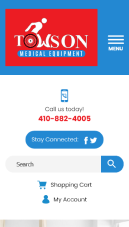
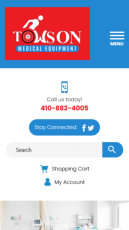
updated styles and added projects

diff --git a/src/template.html b/src/template.html
@@ -8,6 +8,7 @@
 </head>
 
 <body>
+  <div class="bg-fixed"></div>
   <header id="header" class="header">
     <div class="wrapper header__wrapper">
       <div class="header__container">
@@ -18,10 +19,10 @@
         </figure>
         <nav class="header__navigation">
           <ul class="header-nav-list">
-            <li class="header-nav-list__item"><a class="header-nav-list__item-link" href="javascript:;">About</a></li>
-            <li class="header-nav-list__item"><a class="header-nav-list__item-link" href="javascript:;">Projects</a>
+            <li class="header-nav-list__item"><a class="header-nav-list__item-link" href="#about">About</a></li>
+            <li class="header-nav-list__item"><a class="header-nav-list__item-link" href="#projects">Projects</a>
             </li>
-            <li class="header-nav-list__item"><a class="header-nav-list__item-link" href="javascript:;">Contact</a></li>
+            <li class="header-nav-list__item"><a class="header-nav-list__item-link" href="#contact">Contact</a></li>
           </ul>
         </nav>
         <button class="header__resume-btn"><span>Resume</span></button>
@@ -30,7 +31,7 @@
   </header>
 
   <section id="banner" class="banner">
-    <div class="wrapper banner__wrapper">
+    <div class=" wrapper banner__wrapper">
       <div class="banner__container">
         <div class="banner-information">
           <h2 class="banner-information__title">
@@ -168,15 +169,54 @@
               <div class="slider__slide">
                 <figure class="slider__figure">
                   <img class="slider__img" src="images/projects/project-desktop-2.jpg"
-                    alt="ahu ike health coaching and wellness center desktop screenshot view">
+                    alt="ahu ike health coaching and wellness website center desktop screenshot view">
                 </figure>
               </div>
               <div class="slider__slide">
                 <figure class="slider__figure">
                   <img class="slider__img" src="images/projects/project-desktop-3.jpg"
+                    alt="taste of colorado website desktop screenshot view">
+                </figure>
+              </div>
+              <div class="slider__slide">
+                <figure class="slider__figure">
+                  <img class="slider__img" src="images/projects/project-desktop-4.jpg"
+                    alt="lshiz hive website desktop screenshot view">
+                </figure>
+              </div>
+              <div class="slider__slide">
+                <figure class="slider__figure">
+                  <img class="slider__img" src="images/projects/project-desktop-5.jpg"
+                    alt="bsk studios website desktop screenshot view">
+                </figure>
+              </div>
+              <div class="slider__slide">
+                <figure class="slider__figure">
+                  <img class="slider__img" src="images/projects/project-desktop-6.jpg"
+                    alt="g up website desktop screenshot view">
+                </figure>
+              </div>
+              <div class="slider__slide">
+                <figure class="slider__figure">
+                  <img class="slider__img" src="images/projects/project-desktop-7.jpg"
+                    alt="signup form desktop screenshot view">
+                </figure>
+              </div>
+
+              <div class="slider__slide">
+                <figure class="slider__figure">
+                  <img class="slider__img" src="images/projects/project-desktop-8.jpg"
                     alt="ip address tracker desktop screenshot view">
                 </figure>
               </div>
+
+              <div class="slider__slide">
+                <figure class="slider__figure">
+                  <img class="slider__img" src="images/projects/project-desktop-9.jpg"
+                    alt="where in the world desktop screenshot view">
+                </figure>
+              </div>
+
             </div>
           </div>
           <div class="slider__slider2_wrapper">
@@ -185,22 +225,65 @@
                 <div class="slider__slide" data-site-link="https://w7743.proweaversite7.com">
                   <figure class="slider__figure">
                     <img class="slider__img" src="images/projects/project-mobile-1.jpg"
-                      alt="towson medical equipment mobile screenshot view">
+                      alt="towson medical equipment website mobile screenshot view">
                   </figure>
                 </div>
                 <div class="slider__slide" data-site-link="https://www.ahuikehealth.com">
                   <figure class="slider__figure">
                     <img class="slider__img" src="images/projects/project-mobile-2.jpg"
-                      alt="ahu ike health coaching and wellness center mobile screenshot view">
+                      alt="ahu ike health coaching and wellness center website mobile screenshot view">
                   </figure>
                 </div>
+                <div class="slider__slide" data-site-link="https://www.tastesofcolorado.org/">
+                  <figure class="slider__figure">
+                    <img class="slider__img" src="images/projects/project-mobile-3.jpg"
+                      alt="taste of colorado website mobile screenshot view">
+                  </figure>
+                </div>
+                <div class="slider__slide" data-site-link="https://w13840.proweaversite13.com/">
+                  <figure class="slider__figure">
+                    <img class="slider__img" src="images/projects/project-mobile-4.jpg"
+                      alt="lshiz hive website mobile screenshot view">
+                  </figure>
+                </div>
+                <div class="slider__slide" data-site-link="https://www.bskstudiosinc.com/">
+                  <figure class="slider__figure">
+                    <img class="slider__img" src="images/projects/project-mobile-5.jpg"
+                      alt="bsk studios mobile screenshot view">
+                  </figure>
+                </div>
+
+                <div class="slider__slide" data-source-code="https://github.com/mikeanthony23/g-up-api/tree/master">
+                  <figure class="slider__figure">
+                    <img class="slider__img" src="images/projects/project-mobile-6.jpg"
+                      alt="website under construction sign">
+                  </figure>
+                </div>
+
+                <div class="slider__slide" data-site-link="https://mike-signup-form.netlify.app/"
+                  data-source-code="https://github.com/mikeanthony23/signup-form">
+                  <figure class="slider__figure">
+                    <img class="slider__img" src="images/projects/project-mobile-7.jpg"
+                      alt="signup form mobile screenshot view">
+                  </figure>
+                </div>
+
                 <div class="slider__slide" data-site-link="https://ip-address-tracker-v01.netlify.app/"
                   data-source-code="https://github.com/mikeanthony23/ip-address-tracker">
                   <figure class="slider__figure">
-                    <img class="slider__img" src="images/projects/project-mobile-3.jpg"
+                    <img class="slider__img" src="images/projects/project-mobile-8.jpg"
                       alt="ip address tracker mobile screenshot view">
                   </figure>
                 </div>
+
+                <div class="slider__slide" data-site-link="https://where-in-the-world-v01.netlify.app/"
+                  data-source-code="https://github.com/mikeanthony23/where-in-the-world">
+                  <figure class="slider__figure">
+                    <img class="slider__img" src="images/projects/project-mobile-9.jpg"
+                      alt="where in the world mobile screenshot view">
+                  </figure>
+                </div>
+
               </div>
             </div>
           </div>
@@ -287,9 +370,9 @@
 
         <div class="footer-nav">
           <ul class="footer-nav__list">
-            <li class="footer-nav__item"><a class="footer-nav__link" href="javascript:;">About</a></li>
-            <li class="footer-nav__item"><a class="footer-nav__link" href="javascript:;">Projects</a></li>
-            <li class="footer-nav__item"><a class="footer-nav__link" href="javascript:;">Contact</a></li>
+            <li class="footer-nav__item"><a class="footer-nav__link" href="#about">About</a></li>
+            <li class="footer-nav__item"><a class="footer-nav__link" href="#projects">Projects</a></li>
+            <li class="footer-nav__item"><a class="footer-nav__link" href="#contact">Contact</a></li>
           </ul>
         </div>
       </div>

diff --git a/src/scss/layout/_projects.scss b/src/scss/layout/_projects.scss
@@ -1,19 +1,10 @@
 @use '../abstracts/abstractsIndex' as *;
 
-body::after {
-  // content: url('@images/screenshot.jpg');
-  position: absolute;
-  top: 0;
-  left: 0;
-  opacity: 0.55;
-  pointer-events: none;
-}
-
 .projects {
   padding: 0 20px;
-  background: $secColor;
   text-align: center;
   color: #fff;
+  @include sectionBg;
   &__wrapper {
   }
   &__container {
@@ -34,12 +25,12 @@ body::after {
   margin: 50px auto 0;
   overflow: hidden;
   width: 620px;
-  height: 388px;
+  height: 418px;
   &::after {
     content: url(@images/projects/desktop-project-frame.png);
     position: absolute;
-    top: -8px;
-    left: 49.9%;
+    top: -7px;
+    left: 50%;
     transform: translateX(-50%);
     pointer-events: none;
   }
@@ -86,15 +77,14 @@ body::after {
   &__btn-container {
     @include flexBetween;
     justify-content: center;
-    max-width: 430px;
+    max-width: 470px;
     margin: 150px auto 0;
   }
 
   &__btn {
-    // padding-block: 10px;
-    // max-width: 230px;
     &--visit {
       @include btn(left);
+      max-width: 210px;
     }
     &--code {
       @include btn(right);
@@ -109,7 +99,7 @@ body::after {
     width: 150px;
     height: 315px;
     position: absolute;
-    bottom: -110px;
+    bottom: -90px;
     left: 24%;
     margin-left: 50%;
     &::after {

diff --git a/src/index.js b/src/index.js
@@ -33,14 +33,20 @@ const slider = function (sliderParent, setCurrentSlide) {
     const sourceCodeLink = currentShownSlide[currentSlide].dataset.sourceCode
     const sourceCodeButton = document.querySelector('.slider__btn--code')
     const siteLinkButton = document.querySelector('.slider__btn--visit')
+    const siteLink = currentShownSlide[currentSlide].dataset.siteLink
 
-    siteLinkButton.setAttribute('href', currentShownSlide[currentSlide].dataset.siteLink)
+    if (!siteLink) {
+      siteLinkButton.classList.add('hidden')
+      siteLinkButton.setAttribute('href', 'javascript:;')
+    } else {
+      siteLinkButton.classList.remove('hidden')
+      siteLinkButton.setAttribute('href', currentShownSlide[currentSlide].dataset.siteLink)
+    }
 
     if (!sourceCodeLink) {
       sourceCodeButton.classList.add('hidden')
       sourceCodeButton.setAttribute('href', 'javascript:;')
-    }
-    if (sourceCodeLink) {
+    } else {
       sourceCodeButton.classList.remove('hidden')
       sourceCodeButton.setAttribute('href', currentShownSlide[currentSlide].dataset.sourceCode)
     }

diff --git a/src/scss/abstracts/_mixins.scss b/src/scss/abstracts/_mixins.scss
@@ -18,13 +18,17 @@
   gap: $gap;
 }
 
-@mixin glass($bgColor: rgba(255, 255, 255, 0.06), $border: 1px solid rgba(235, 235, 235, 0.29)) {
+@mixin glass(
+  $bgColor: rgba(255, 255, 255, 0.06),
+  $border: 1px solid rgba(235, 235, 235, 0.29),
+  $blur: 5px
+) {
   border-radius: 12px;
-  backdrop-filter: blur(5px);
-  -webkit-backdrop-filter: blur(5px);
-  backdrop-filter: blur(5px);
+  backdrop-filter: blur($blur);
+  -webkit-backdrop-filter: blur($blur);
+  backdrop-filter: blur($blur);
   background-color: $bgColor;
-  // border: $border;
+  border: $border;
 }
 
 @mixin btn($direction: left) {
@@ -75,4 +79,10 @@
     position: relative;
     z-index: 2;
   }
+}
+
+@mixin sectionBg() {
+  background: $sectionBg;
+  position: relative;
+  z-index: 2;
 }

diff --git a/src/scss/layout/_banner.scss b/src/scss/layout/_banner.scss
@@ -2,9 +2,22 @@
 
 .banner {
   padding: 0 20px;
-  // background: $secColor;
-  background: url(@images/banner/banner-bg.jpg) no-repeat center / 1920px 1000px;
+  position: relative;
+  @include sectionBg;
   &__wrapper {
+  }
+
+  &__video_container {
+    position: absolute;
+    overflow: hidden;
+    left: 0;
+    width: 100%;
+    height: 100%;
+  }
+
+  &__video {
+    width: 1920px;
+    position: relative;
   }
 
   &__container {
@@ -26,8 +39,6 @@
   text-align: center;
   width: 100%;
   padding: 135px 0;
-  border: solid 1px #ffffff0a;
-  @include glass(rgba(51, 28, 215, 0.02));
   &__title {
     font-weight: 400;
     font-size: $headerFontSize;

diff --git a/src/scss/abstracts/_resets.scss b/src/scss/abstracts/_resets.scss
@@ -76,3 +76,11 @@ input {
   font-weight: $headerFontWeight;
   font-size: $headerFontSize;
 }
+
+.bg-fixed {
+  background: url(@images/bg-full.jpg) no-repeat center / cover;
+  position: fixed;
+  width: 100%;
+  height: 100%;
+  top: 0;
+}

diff --git a/src/scss/layout/_contact.scss b/src/scss/layout/_contact.scss
@@ -2,8 +2,6 @@
 
 .contact {
   padding: 0 20px;
-  // background: $priColor;
-  background: url(@images/contact/contact-bg.jpg) no-repeat center / cover;
   color: #fff;
   text-align: center;
   &__wrapper {

diff --git a/src/scss/layout/_header.scss b/src/scss/layout/_header.scss
@@ -1,9 +1,9 @@
 @use '../abstracts/abstractsIndex' as *;
 
 .header {
+  position: relative;
   background-color: $priColor;
   padding-inline: 20px;
-
   &__wrapper {
     max-width: 1282px;
   }

diff --git a/src/scss/layout/_footer.scss b/src/scss/layout/_footer.scss
@@ -1,8 +1,8 @@
 @use '../abstracts/abstractsIndex' as *;
 
 .footer {
-  background: $secColor;
   padding: 0 20px;
+  @include sectionBg;
   &__wrapper {
   }
   &__container {

diff --git a/src/scss/abstracts/_variables.scss b/src/scss/abstracts/_variables.scss
@@ -1,6 +1,7 @@
 // Colors
-$priColor: #0b0d20;
-$secColor: #0f112c;
+$priColor: #031d2a;
+$secColor: #041a28;
+$sectionBg: #ffffff0a;
 $accentColor: #f55656;
 
 // Fonts

diff --git a/src/scss/layout/_about.scss b/src/scss/layout/_about.scss
@@ -2,7 +2,6 @@
 
 .about {
   padding: 0 20px;
-  background: $priColor;
   color: #fff;
   &__wrapper {
     max-width: 1530px;
